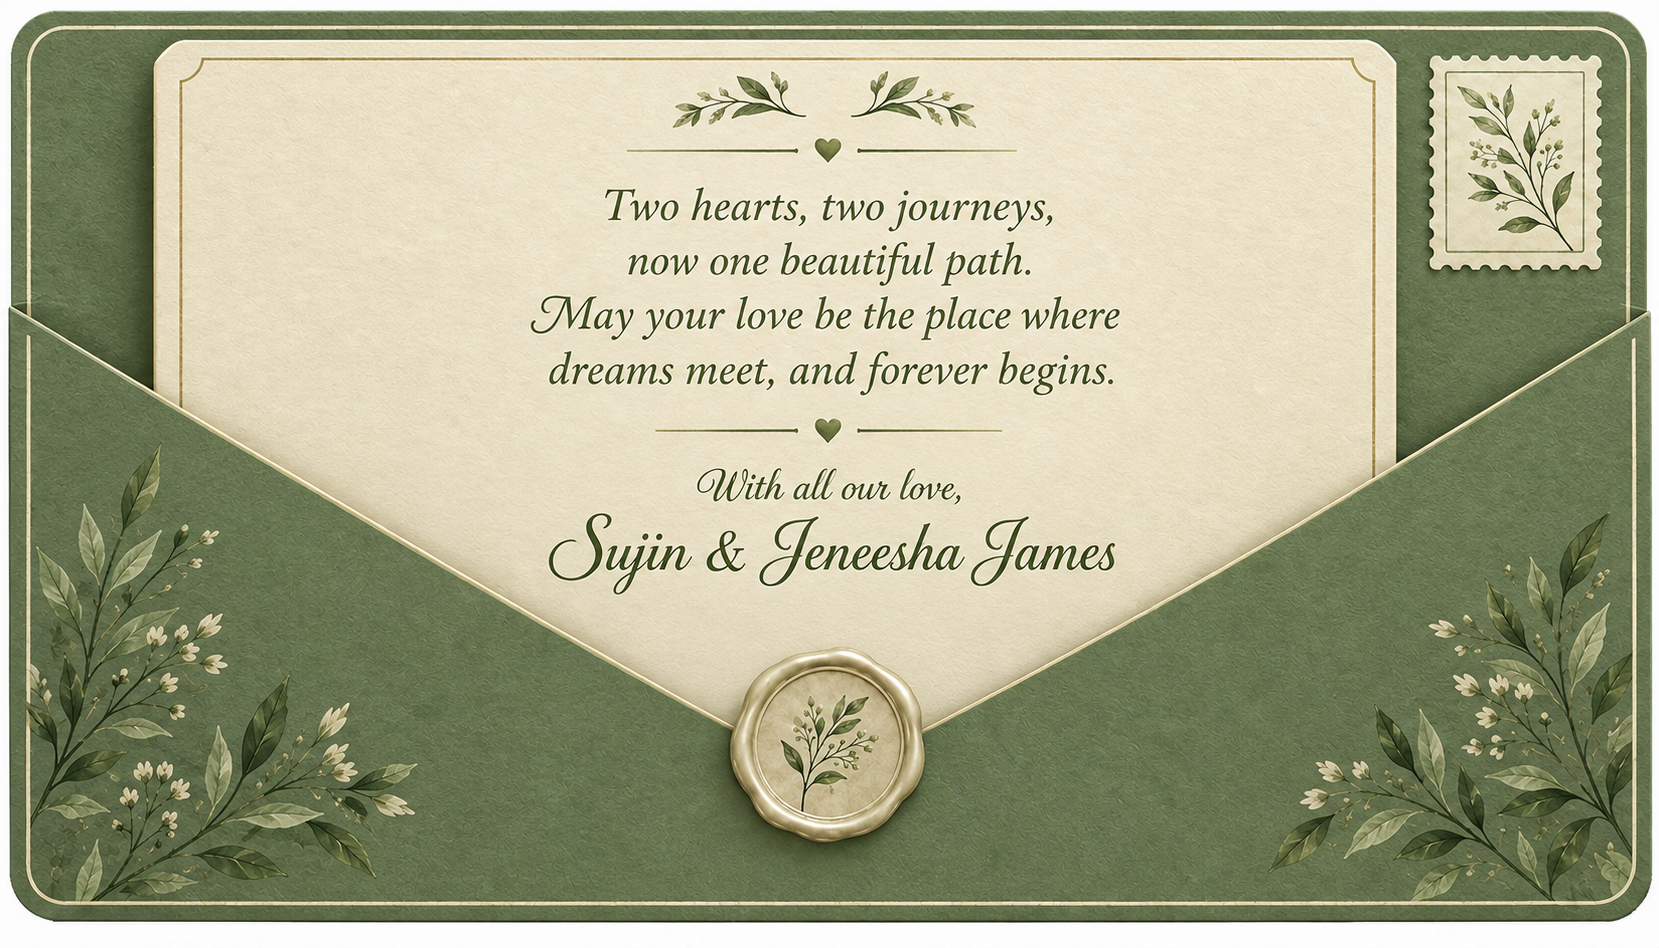
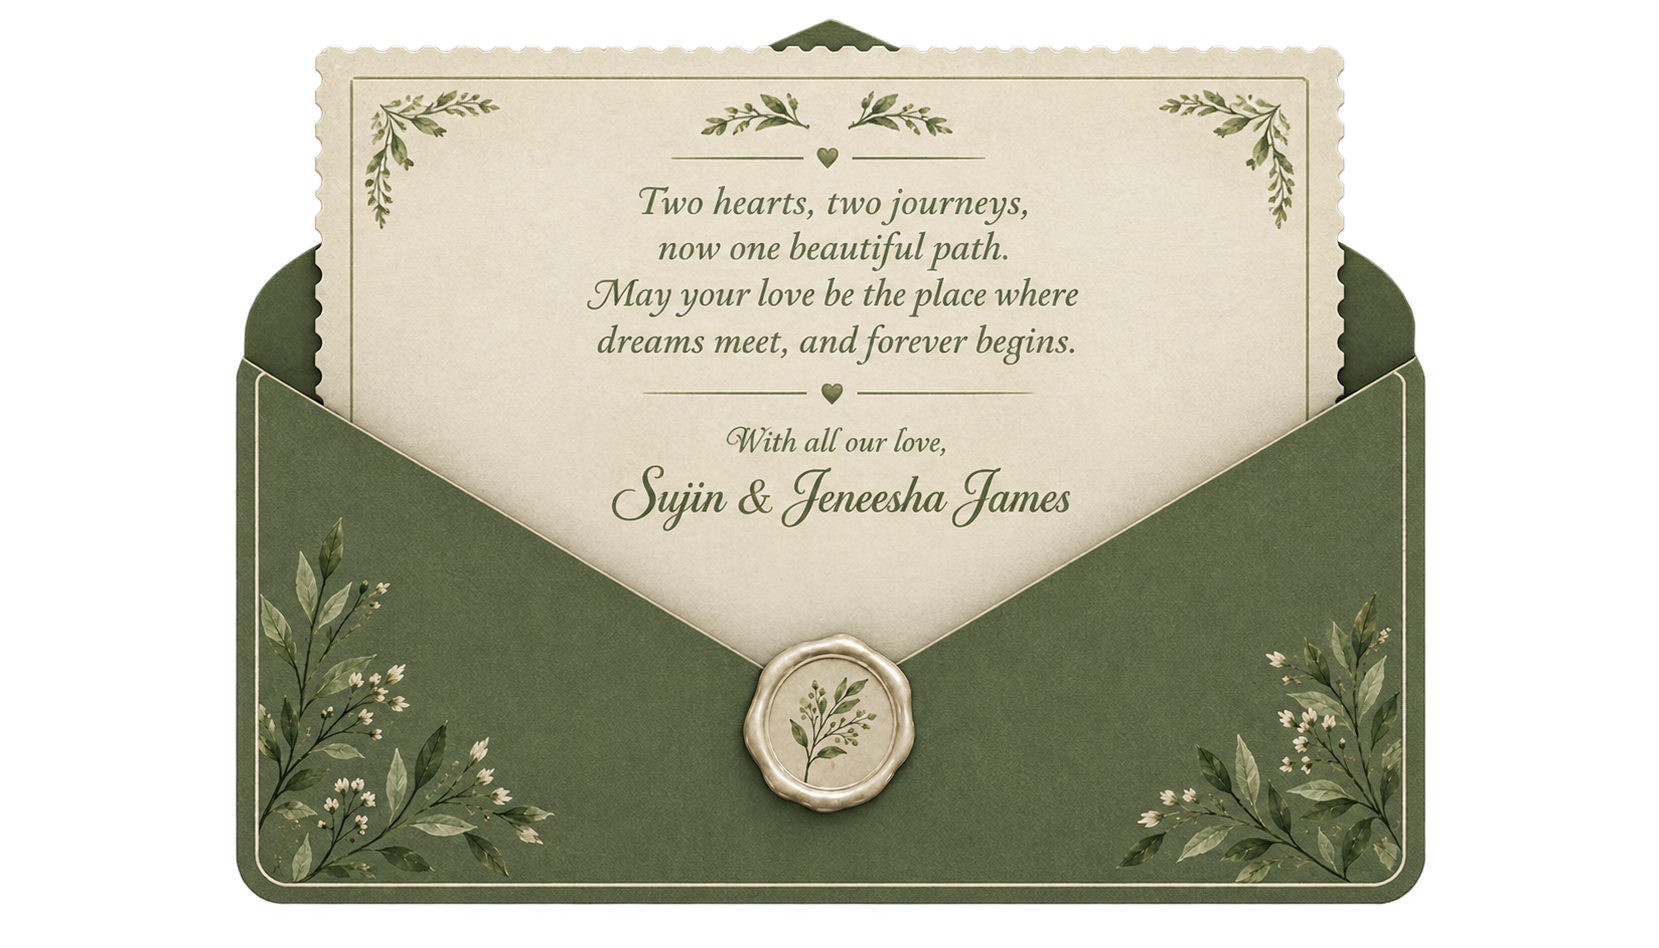
Initial commit

diff --git a/src/components/WeddingInvitation.tsx b/src/components/WeddingInvitation.tsx
@@ -630,25 +630,29 @@ export function WeddingInvitation() {
             {/* Open envelope image */}
             <div className="letter-open-img">
               <img src={letterOpenImage} alt="Opened love letter with heartfelt message" width={1200} height={1200} />
-              {letterOpen && (
-                <button
-                  className="letter-open-seal"
-                  onClick={() => setLetterOpen(false)}
-                  aria-label="Close our love letter"
-                  title="Click seal to close letter"
-                />
-              )}
             </div>
 
             {/* Caption */}
             <div className="letter-caption">
               <span className="caption-line" />
               <div className="caption-content">
-                <span className="caption-icon">{letterOpen ? "✦" : "☝"}</span>
-                <p>{letterOpen ? "Tap the seal to close letter" : "Tap the seal to open our letter"}</p>
+                <span className="caption-icon">✦</span>
+                <p>{letterOpen ? "A message held in our hearts" : "Tap the seal to open our letter"}</p>
               </div>
               <span className="caption-line" />
             </div>
+
+            {/* Heartfelt message quote */}
+            {letterOpen && (
+              <div className="letter-quote-box" style={{ marginTop: '2rem', maxWidth: '32rem', textAlign: 'center', padding: '0 1rem' }}>
+                <p style={{ fontStyle: 'italic', fontSize: '1.1rem', lineHeight: '1.7', color: '#1b3a20', fontFamily: 'var(--font-serif)', margin: '0 0 0.6rem' }}>
+                  “To our beloved family and friends — thank you for walking beside us, sharing in our joy, and filling our lives with so much love as we begin our forever.”
+                </p>
+                <span style={{ display: 'inline-block', fontSize: '0.82rem', color: '#3b5836', letterSpacing: '0.18em', textTransform: 'uppercase', fontWeight: 600 }}>
+                  — Sujin &amp; Jeneesha —
+                </span>
+              </div>
+            )}
           </div>
         </section>
 

diff --git a/src/styles.css b/src/styles.css
@@ -1620,7 +1620,7 @@ a {
 /* OPEN ENVELOPE IMAGE */
 .letter-open-img {
   position: relative;
-  width: min(94vw, 460px);
+  width: min(96vw, 490px);
   margin-top: 0.5rem;
   opacity: 0;
   transform: translateY(20px) scale(0.96);
@@ -1646,8 +1646,8 @@ a {
 
 .image-letter-wrapper.is-open .letter-open-img {
   opacity: 1;
-  transform: translateY(-16px) scale(1);
-  max-height: 1000px;
+  transform: translateY(-16px) scale(1.06);
+  max-height: 1200px;
   transition: opacity 0.8s ease 0.4s, transform 0.8s ease 0.4s, max-height 0.8s ease 0.2s;
 }
 
@@ -1666,8 +1666,8 @@ a {
   width: 38px;
   height: 1px;
   flex-shrink: 0;
-  background: var(--primary);
-  opacity: 0.4;
+  background: #3b5836;
+  opacity: 0.5;
 }
 
 .caption-content {
@@ -1679,17 +1679,18 @@ a {
 
 .caption-icon {
   font-size: 0.9rem;
-  color: var(--primary);
+  color: #3b5836;
   animation: gentle-bounce 2s ease-in-out infinite;
 }
 
 .letter-caption p {
   margin: 0;
   font-family: var(--font-serif);
-  font-size: 0.85rem;
+  font-size: 0.92rem;
   font-style: italic;
-  letter-spacing: 0.02em;
-  color: color-mix(in oklab, var(--primary-foreground) 85%, transparent);
+  letter-spacing: 0.04em;
+  color: #1b3a20;
+  font-weight: 600;
 }
 
 @keyframes gentle-bounce {
